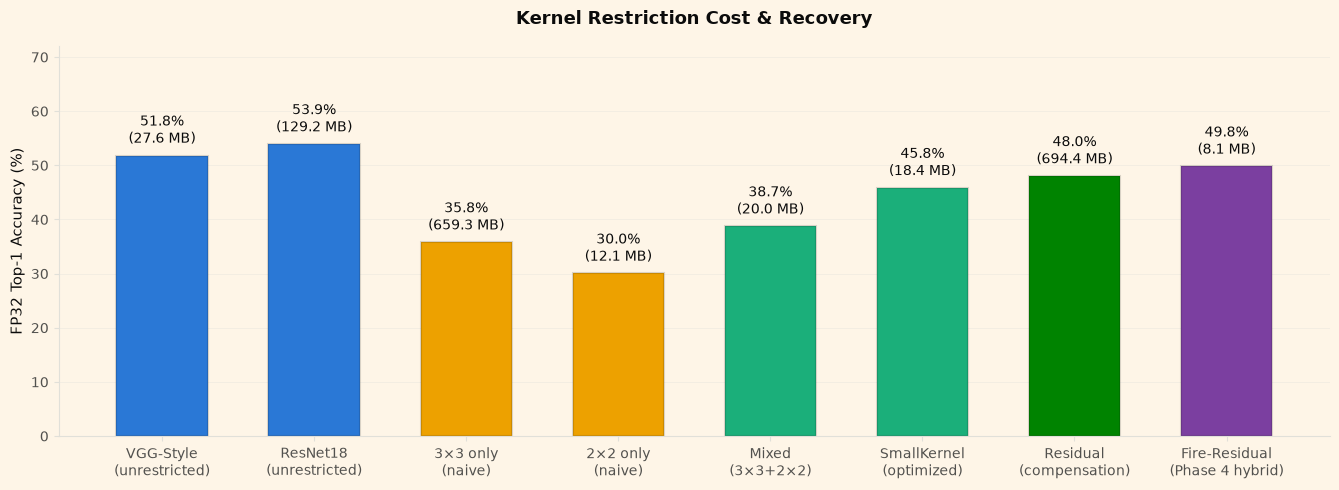
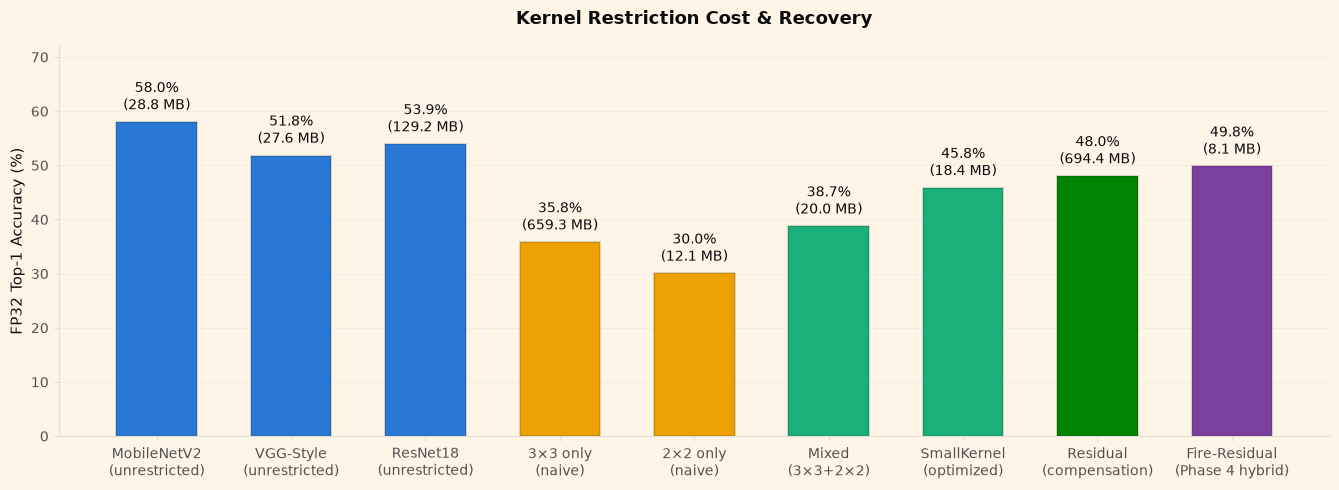
refactor: update slides

diff --git a/presentation/make_figures.py b/presentation/make_figures.py
@@ -58,19 +58,19 @@ fig, ax = plt.subplots(figsize=(13.5, 5), facecolor=SURFACE)
 ax.set_facecolor(SURFACE)
 
 models_fig1 = [
-    "vgg_style", "resnet18_tv",
+    "mobilenetv2", "vgg_style", "resnet18_tv",
     "alexnet_3x3", "alexnet_2x2",
     "alexnet_mixed", "alexnet_small_kernel", "alexnet_residual",
     "alexnet_final_fire_residual",
 ]
 labels_fig1 = [
-    "VGG-Style\n(unrestricted)", "ResNet18\n(unrestricted)",
+    "MobileNetV2\n(unrestricted)", "VGG-Style\n(unrestricted)", "ResNet18\n(unrestricted)",
     "3×3 only\n(naive)", "2×2 only\n(naive)",
     "Mixed\n(3×3+2×2)", "SmallKernel\n(optimized)", "Residual\n(compensation)",
     "Fire-Residual\n(Phase 4 hybrid)",
 ]
 colors_fig1 = [
-    COLORS["blue"], COLORS["blue"],
+    COLORS["blue"], COLORS["blue"], COLORS["blue"],
     COLORS["yellow"], COLORS["yellow"],
     COLORS["aqua"], COLORS["aqua"], COLORS["green"],
     COLORS["purple"],

diff --git a/presentation/slides.md b/presentation/slides.md
@@ -66,6 +66,30 @@ style: |
   table tbody tr {
     border-bottom: 1px solid #ddd;
   }
+
+  .refs {
+    display: flex;
+    gap: 30px;
+    align-items: flex-start;
+  }
+  .refs > div {
+    flex: 1;
+  }
+  .refs p {
+    font-size: 14px !important;
+    line-height: 1.25 !important;
+    margin: 6px 0 !important;
+  }
+
+  .mini-table table {
+    width: 70% !important;
+    font-size: 13px !important;
+    margin: 8px auto !important;
+  }
+  .mini-table table th,
+  .mini-table table td {
+    padding: 4px 8px !important;
+  }
 ---
 
 <!-- _class: title-slide -->
@@ -103,15 +127,15 @@ Rafael Silva de Souza
 
 ---
 
-## A Restrição de Kernel
+## Restrição de Kernel
 
 ![width:900px](../presentation/figures/kernel_restriction_cost.png)
 
-<div class="smaller">
+<div class="mini-table">
 
 | Modelo | Head | Camadas FC |
 |--------|------|-----------|
-| VGG-Style, ResNet18, 2×2, Mixed, SmallKernel, Fire-Residual | GAP (1×1) | 1 |
+| MobileNetV2, VGG-Style, ResNet18, 2×2, Mixed, SmallKernel, Fire-Residual | GAP (1×1) | 1 |
 | AlexNet 3×3, Residual | AvgPool (6×6) | 3 |
 
 </div>
@@ -122,20 +146,22 @@ Rafael Silva de Souza
 
 ![width:900px](../presentation/figures/kernel_restriction_cost_int8.png)
 
-*ResNet18 omitido — não existe resultado INT8/QAT para esse baseline pré-treinado.*
+*ResNet18 e MobileNetV2 omitidos — sem resultado INT8/QAT válido para esses baselines pré-treinados (somas residuais nativas, incompatíveis com conversão INT8).*
 
 ---
 
 ## Comparação
 
-|  | **SmallKernel** | **Residual** |
-|---|---|---|
-| Mecanismo | Canais mais estreitos (64→128→256→256→256) + cabeça GAP no lugar das FC 4096+4096 + camadas 3×3 para compensar o campo receptivo | 5 blocos residuais [7]: duas conv 3×3+BN+ReLU somadas ao atalho via `FloatFunctional`; canais e cabeça FC iguais ao `AlexNet3x3` |
-| Parâmetros | 1,6M | 57,8M |
-| Tamanho | **18 MB** | 694 MB |
-| FP32 → INT8 | 45,8% → 35,9% | **48,0% → 47,3%** |
+<div class="smaller">
 
-**Leve, porém frágil na quantização** — vs. — **Pesado, porém o mais preciso e estável**
+|  | **SmallKernel** | **Residual** | **Fire-Residual** |
+|---|---|---|---|
+| Mecanismo | Canais estreitos + GAP + 3×3 | Blocos residuais [7] (`FloatFunctional`) | Fire [10] + atalho residual |
+| Parâmetros | 1,6M | 57,8M | 0,7M |
+| Tamanho | 18 MB | 694 MB | 8 MB |
+| FP32 → INT8 | 45,8% → 35,9% | 48,0% → 47,3% | 49,8% → 49,2% |
+
+</div>
 
 ---
 
@@ -159,45 +185,41 @@ Rafael Silva de Souza
 
 ## Referências
 
-<div style="font-size: 0.5em; line-height: 1.4">
+<div class="refs">
 
-**[1]** LE, Y.; YANG, X. *Tiny ImageNet visual recognition challenge*. Stanford: CS231N Course Technical Report, 2015.
+<div>
 
-**[2]** JACOB, B. et al. *Quantization and training of neural networks for efficient integer-arithmetic-only inference*. In: IEEE CONFERENCE ON COMPUTER VISION AND PATTERN RECOGNITION, 2018, Salt Lake City. Proceedings [...]. Piscataway: IEEE, 2018. p. 2704-2713.
+**[1]** LE, Y.; YANG, X. *Tiny ImageNet visual recognition challenge*. Stanford: Stanford University, 2015. (CS231N Course Technical Report).
 
-**[3]** KHUDIA, D. et al. *FBGEMM: enabling high-performance low-precision deep learning inference*. arXiv preprint arXiv:2101.05615, 2021.
+**[2]** JACOB, B. *et al.* Quantization and training of neural networks for efficient integer-arithmetic-only inference. In: IEEE CVPR, 2018, Salt Lake City. *Anais [...]*. Piscataway: IEEE, 2018. p. 2704-2713.
 
-**[4]** PASZKE, A. et al. *PyTorch: an imperative style, high-performance deep learning library*. In: ADVANCES IN NEURAL INFORMATION PROCESSING SYSTEMS, 32., 2019, Vancouver. Proceedings [...]. 2019. p. 8024-8035.
+**[3]** KHUDIA, D. *et al. FBGEMM: enabling high-performance low-precision deep learning inference*. [S. l.]: arXiv, 2021. arXiv:2101.05615.
 
-</div>
-
----
-
-## Referências (cont.)
-
-<div style="font-size: 0.5em; line-height: 1.4">
-
-**[5]** LAVIN, A.; GRAY, S. *Fast algorithms for convolutional neural networks*. In: IEEE CONFERENCE ON COMPUTER VISION AND PATTERN RECOGNITION, 2016, Las Vegas. Proceedings [...]. Piscataway: IEEE, 2016. p. 4013-4021.
-
-**[6]** SANDLER, M.; HOWARD, A.; ZHU, M.; ZHMOGINOV, A.; CHEN, L. *MobileNetV2: inverted residuals and linear bottlenecks*. In: IEEE CONFERENCE ON COMPUTER VISION AND PATTERN RECOGNITION, 2018, Salt Lake City. Proceedings [...]. Piscataway: IEEE, 2018. p. 4510-4520.
-
-**[7]** HE, K.; ZHANG, X.; REN, S.; SUN, J. *Deep residual learning for image recognition*. In: IEEE CONFERENCE ON COMPUTER VISION AND PATTERN RECOGNITION, 2016, Las Vegas. Proceedings [...]. Piscataway: IEEE, 2016. p. 770-778.
-
-**[8]** SIMONYAN, K.; ZISSERMAN, A. *Very deep convolutional networks for large-scale image recognition*. In: INTERNATIONAL CONFERENCE ON LEARNING REPRESENTATIONS, 3., 2015, San Diego. Proceedings [...]. 2015.
+**[4]** PASZKE, A. *et al.* PyTorch: an imperative style, high-performance deep learning library. In: NeurIPS, 32., 2019, Vancouver. *Anais [...]*. [S. l.]: Curran Associates, 2019. p. 8024-8035.
 
 </div>
 
----
+<div>
 
-## Referências (cont.)
+**[5]** LAVIN, A.; GRAY, S. Fast algorithms for convolutional neural networks. In: IEEE CVPR, 2016, Las Vegas. *Anais [...]*. Piscataway: IEEE, 2016. p. 4013-4021.
 
-<div style="font-size: 0.5em; line-height: 1.4">
+**[6]** SANDLER, M. *et al.* MobileNetV2: inverted residuals and linear bottlenecks. In: IEEE CVPR, 2018, Salt Lake City. *Anais [...]*. Piscataway: IEEE, 2018. p. 4510-4520.
 
-**[9]** KRIZHEVSKY, A.; SUTSKEVER, I.; HINTON, G. E. *ImageNet classification with deep convolutional neural networks*. In: ADVANCES IN NEURAL INFORMATION PROCESSING SYSTEMS, 25., 2012. Proceedings [...]. p. 1097-1105.
+**[7]** HE, K. *et al.* Deep residual learning for image recognition. In: IEEE CVPR, 2016, Las Vegas. *Anais [...]*. Piscataway: IEEE, 2016. p. 770-778.
 
-**[10]** IANDOLA, F. N. et al. *SqueezeNet: AlexNet-level accuracy with 50x fewer parameters and <0.5MB model size*. arXiv preprint arXiv:1602.07360, 2016.
+**[8]** SIMONYAN, K.; ZISSERMAN, A. Very deep convolutional networks for large-scale image recognition. In: ICLR, 3., 2015, San Diego. *Anais [...]*. [S. l.: s. n.], 2015.
 
-**[11]** HOWARD, A. G. et al. *MobileNets: efficient convolutional neural networks for mobile vision applications*. arXiv preprint arXiv:[phone redacted], 2017.
+</div>
+
+<div>
+
+**[9]** KRIZHEVSKY, A.; SUTSKEVER, I.; HINTON, G. E. ImageNet classification with deep convolutional neural networks. In: NeurIPS, 25., 2012, Lake Tahoe. *Anais [...]*. [S. l.]: Curran Associates, 2012. p. 1097-1105.
+
+**[10]** IANDOLA, F. N. *et al. SqueezeNet: AlexNet-level accuracy with 50x fewer parameters and <0.5MB model size*. [S. l.]: arXiv, 2016. arXiv:1602.07360.
+
+**[11]** HOWARD, A. G. *et al. MobileNets: efficient convolutional neural networks for mobile vision applications*. [S. l.]: arXiv, 2017. arXiv:[phone redacted].
+
+</div>
 
 </div>
 